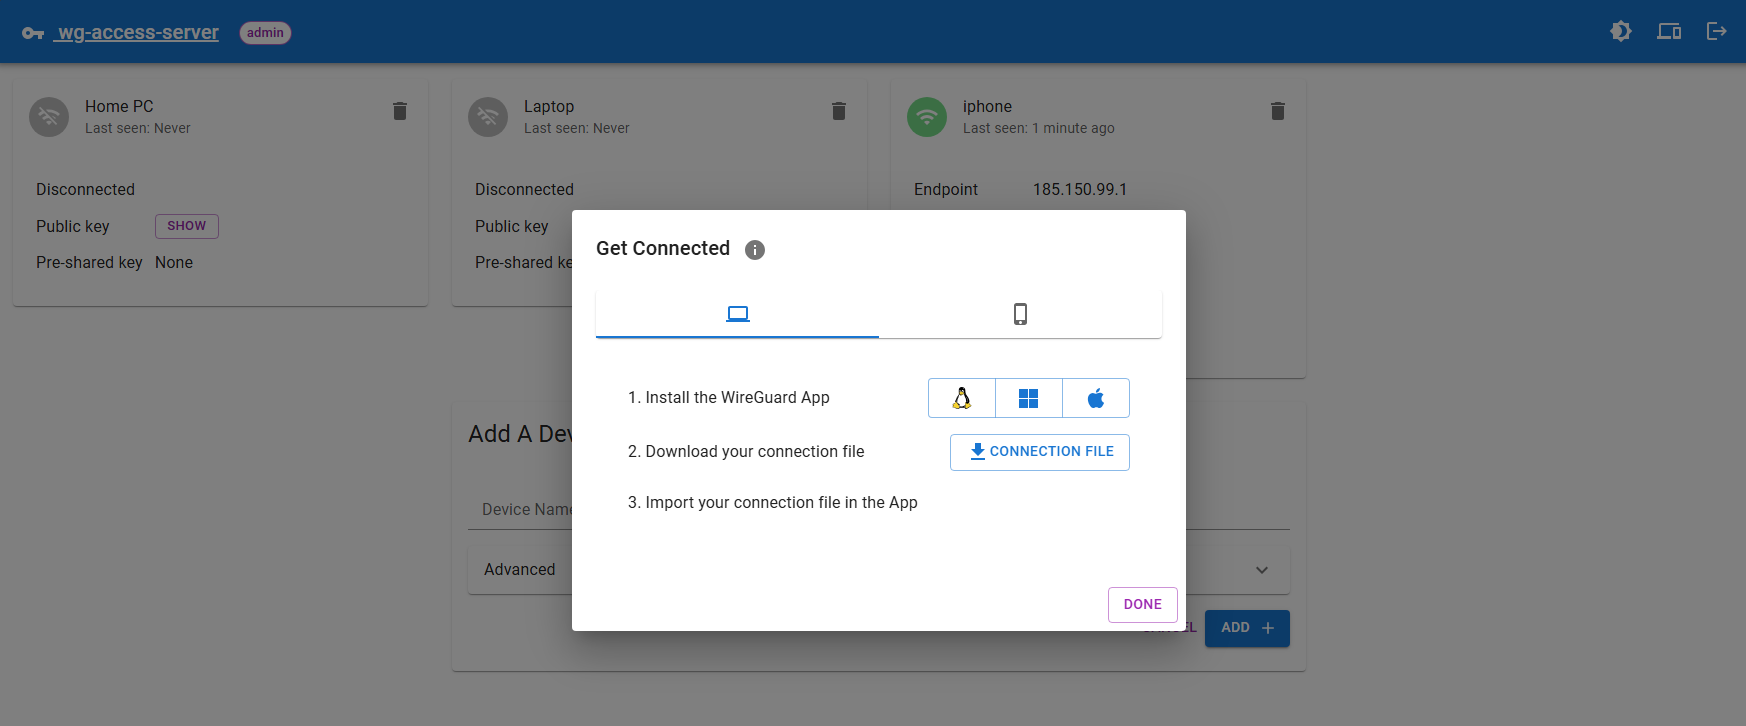
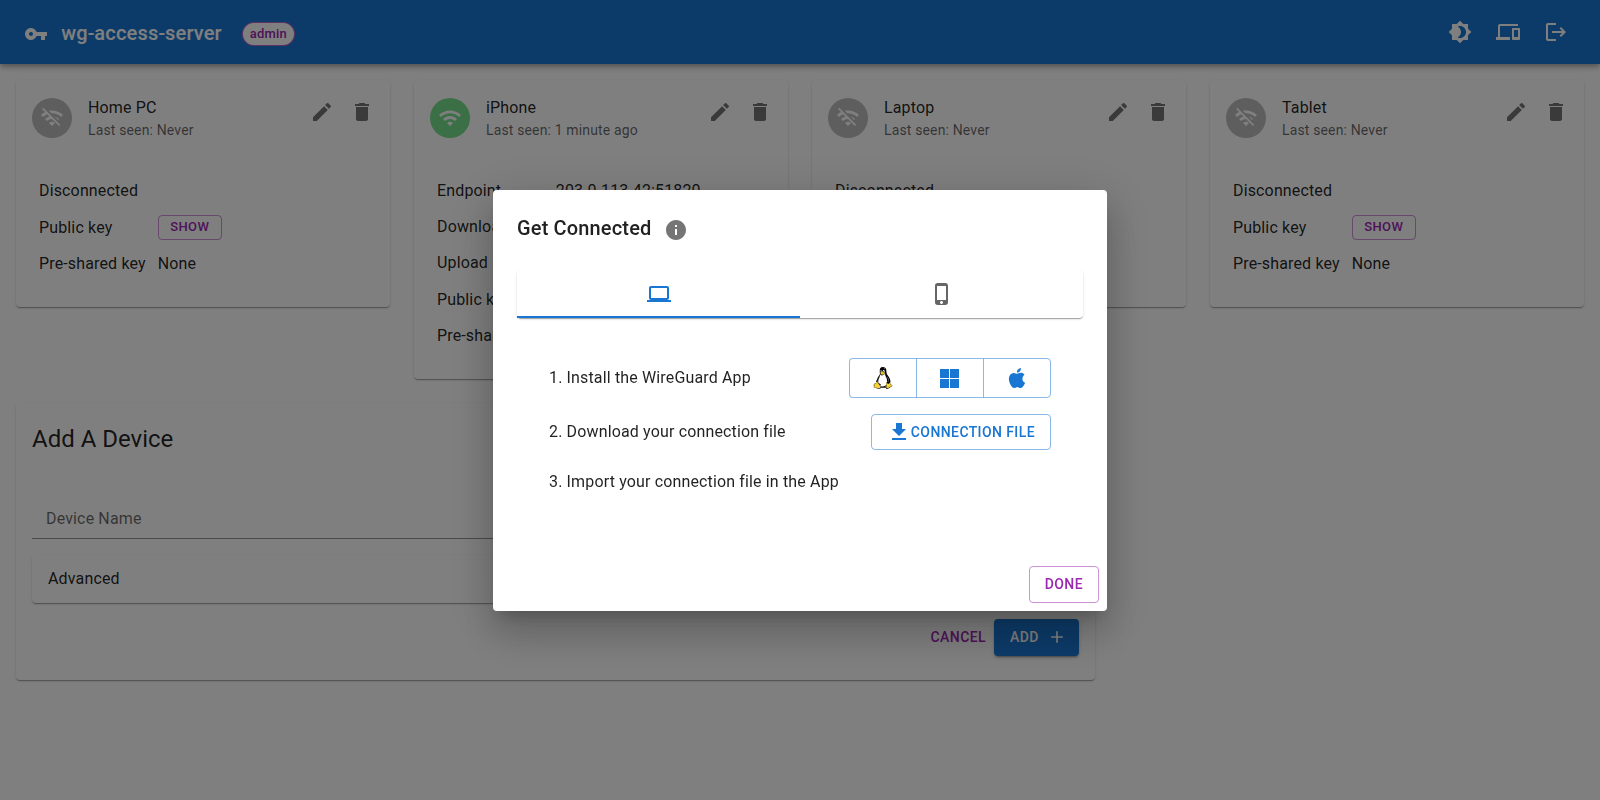
fix(website): sign-out button, app bar, device order and fresh screenshots (#1278)
* fix(website): offer to sign out while signed in

* fix(website): list devices alphabetically

* docs: refresh the screenshots

diff --git a/website/src/components/Navigation.tsx b/website/src/components/Navigation.tsx
@@ -1,6 +1,5 @@
 import React, { useEffect } from 'react';
 import styled from '@emotion/styled';
-import { getCookie } from '../Cookies';
 import { AppState } from '../AppState';
 import { NavLink } from 'react-router-dom';
 import AppBar from '@mui/material/AppBar';
@@ -24,13 +23,16 @@ const Title = styled(Typography)`
 `;
 
 export default function Navigation() {
-  const hasAuthCookie = !!getCookie('auth-session');
+  // The web UI is only served to signed in users, and the server info only
+  // loads with a session - the session cookie itself is HttpOnly and not
+  // visible from here.
+  const signedIn = !!AppState.info;
 
   return (
     <AppBar position="static">
       <Toolbar>
         <Title variant="h6">
-          <Link to="/" color="inherit" component={NavLink}>
+          <Link to="/" color="inherit" underline="none" component={NavLink}>
             <VpnKey /> wg-access-server
           </Link>
           {AppState.info?.isAdmin && (
@@ -65,7 +67,7 @@ export default function Navigation() {
           </Link>
         )}
 
-        {hasAuthCookie ? (
+        {signedIn ? (
           <Link href="/signout" color="inherit">
             <IconButton sx={{ ml: 1 }} color="inherit" title="Logout">
               <LogoutIcon />

diff --git a/website/src/components/Navigation.test.tsx b/website/src/components/Navigation.test.tsx
@@ -1,0 +1,31 @@
+import { describe, expect, it } from 'vitest';
+import { render, screen } from '@testing-library/react';
+import { MemoryRouter } from 'react-router-dom';
+import Navigation from './Navigation';
+import { AppState } from '../AppState';
+import { InfoRes } from '../sdk/server_pb';
+
+function renderNavigation() {
+  return render(
+    <MemoryRouter>
+      <Navigation />
+    </MemoryRouter>,
+  );
+}
+
+describe('Navigation', () => {
+  // The session cookie is HttpOnly, so it cannot tell whether somebody is
+  // signed in - the loaded server info can.
+  it('offers to sign out once the server info has loaded', () => {
+    AppState.setInfo({ isAdmin: false } as InfoRes.AsObject);
+    renderNavigation();
+    expect(screen.getByTitle('Logout').closest('a')?.getAttribute('href')).toBe('/signout');
+    expect(screen.queryByTitle('Login')).toBeNull();
+  });
+
+  it('does not underline the app name', () => {
+    AppState.setInfo({ isAdmin: false } as InfoRes.AsObject);
+    renderNavigation();
+    expect(screen.getByText('wg-access-server').closest('a')?.className).toContain('underlineNone');
+  });
+});

diff --git a/website/src/components/Devices.tsx b/website/src/components/Devices.tsx
@@ -93,8 +93,8 @@ export const Devices = observer(
         <Box sx={{ display: 'grid', gap: 3, justifyContent: 'center' }}>
           <Box sx={{ gridColumn: 'span 12' }}>
             <Box sx={{ display: 'grid', gap: 3, gridTemplateColumns: { xs: '1fr', sm: '1fr 1fr', md: 'repeat(3, 1fr)', lg: 'repeat(4, 1fr)' } }}>
-              {devices.current.map((device: Device.AsObject, i: React.Key) => (
-                <Box key={i}>
+              {sortByName(devices.current).map((device: Device.AsObject) => (
+                <Box key={device.name}>
                   <DeviceListItem device={device} onChange={() => devices.refresh()} />
                 </Box>
               ))}
@@ -108,3 +108,9 @@ export const Devices = observer(
     }
   },
 );
+
+// The storage hands devices out in whatever order it keeps them - SQL puts
+// "Tablet" before "iPhone". People expect them alphabetically.
+export function sortByName(devices: Device.AsObject[]): Device.AsObject[] {
+  return [...devices].sort((a, b) => a.name.localeCompare(b.name, undefined, { sensitivity: 'base', numeric: true }));
+}

diff --git a/website/src/components/Devices.test.ts b/website/src/components/Devices.test.ts
@@ -1,0 +1,14 @@
+import { describe, expect, it, vi } from 'vitest';
+import { sortByName } from './Devices';
+import { Device } from '../sdk/devices_pb';
+
+vi.mock('../Api', () => ({ grpc: {} }));
+
+describe('sortByName', () => {
+  it('sorts alphabetically, not by character code', () => {
+    const devices = ['Tablet', 'iPhone', 'Home PC', 'laptop 10', 'laptop 2'].map(
+      (name) => ({ name }) as Device.AsObject,
+    );
+    expect(sortByName(devices).map((d) => d.name)).toEqual(['Home PC', 'iPhone', 'laptop 2', 'laptop 10', 'Tablet']);
+  });
+});
